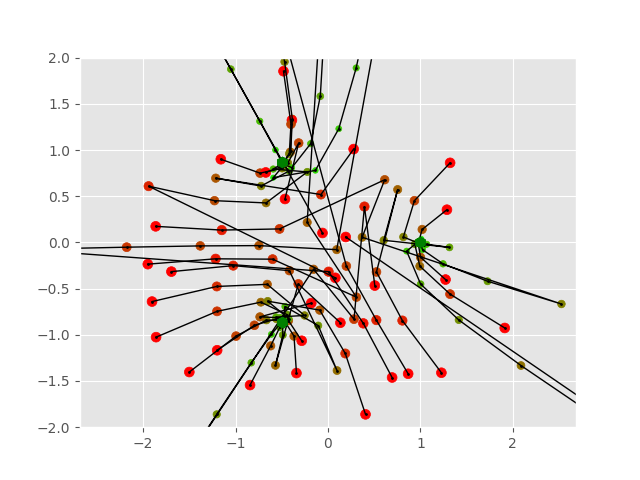
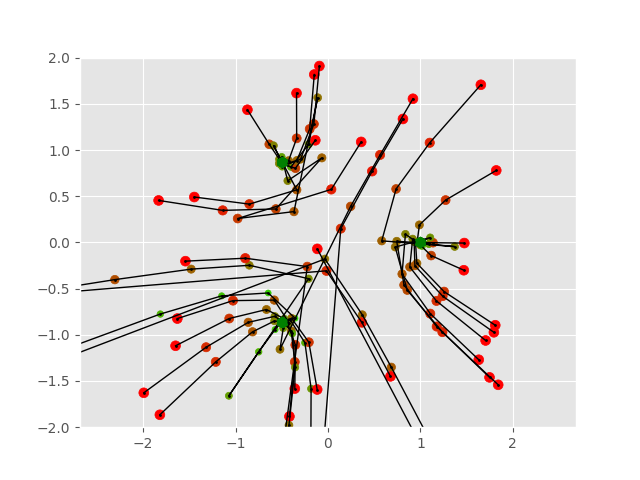
small modifications

diff --git a/main.py b/main.py
@@ -25,27 +25,14 @@ def task3():
             -0.5 - math.sqrt(3.0) * 1.0j / 2.0,
             -0.5 + math.sqrt(3.0) * 1.0j / 2.0,
         ],
-        # z_{j+1} = z_j - f(z_j) / f'(z_j)
-        #   f(z) = z^3 - 1
-        #   f'(z) = 3 * z^2
-        # z_{j+1} = z_j - (z_j^3 - 1) / (3 * z_j^2)
-        # z_{j+1} = (3 * z_j^3 - z_j^3 + 1) / (3 * z_j^2)
-        # z_{j+1} = (2 * z_j^3 + 1) / (3 * z_j^2)
         lambda z: (2 * (z ** 3) + 1) / (3 * (z ** 2)),
-        # z_{j+1} = (2 / 3) * z_j + (1 / 3) * (1 / z_j^2)
-        #   z_j = re + im * i
-        # z_{j+1} = (2 / 3) * z_j + (1 / 3) * (1 / (re^2 - im^2 + 2 re * im * i))
-        # z_{j+1} = (2 / 3) * z_j + (1 / 3) * ((re^2 - im^2 - 2 re * im * i) / ((re^2 - im^2)^2 + 4 re^2 * im^2))
-        # z_{j+1} = (2 / 3) * z_j + (1 / 3) * ((re^2 - im^2 - 2 re * im * i) / (re^2 + im^2)^2)
-        # z_{j+1} = (2 / 3) * re + (1 / 3) * (re^2 - im^2) / (re^2 + im^2)^2 +
-        #         + (2 / 3) * (im - re * im / (re^2 + im^2)^2) * i
-        lambda z: complex(
-            (2.0 / 3.0) * z.real + (1.0 / 3.0) * ((z.real ** 2.0) - (z.imag ** 2.0)),
-            (2.0 / 3.0) * (z.imag - (z.real * z.imag))
-        ) / (((z.real ** 2.0) + (z.imag ** 2.0)) ** 2.0)
+        lambda z: z * 2 / 3 + complex(
+            (z.real ** 2.0) - (z.imag ** 2.0),
+            - 2 * z.real * z.imag
+        ) / (3 * ((z.real ** 2.0) + (z.imag ** 2.0)) ** 2.0)
     ).select_transformer(0))
 
-    limits = PictureEnv(lx=-2, ly=-2, px=500, py=500, c=4)
+    limits = PictureEnv(lx=-2, ly=-2, px=2000, py=2000, c=4)
     ni.sequence(
         [1.0 + 0.75j, -1 - 0.5j, 1.5 + 0.5j],
         limits,

diff --git a/task2/main.py b/task2/main.py
@@ -12,7 +12,7 @@ def fixed_point_iteration(f, x0, iter_num):
         Function to explore.
     iter_num : int
         Number of iterations.
-    r : float
+    x0 : float
         Parameter in equation.
 
     Returns list of iteration points

diff --git a/task3/main.py b/task3/main.py
@@ -38,8 +38,8 @@ class PictureEnv:
 
 
 class Plane:
-    eps = 1e-5
-    Eps = 1e5
+    eps = 1e-10
+    Eps = 1e10
 
     def __init__(self, roots: List[complex], *args: Callable[[complex], complex]):
         self.roots = roots
